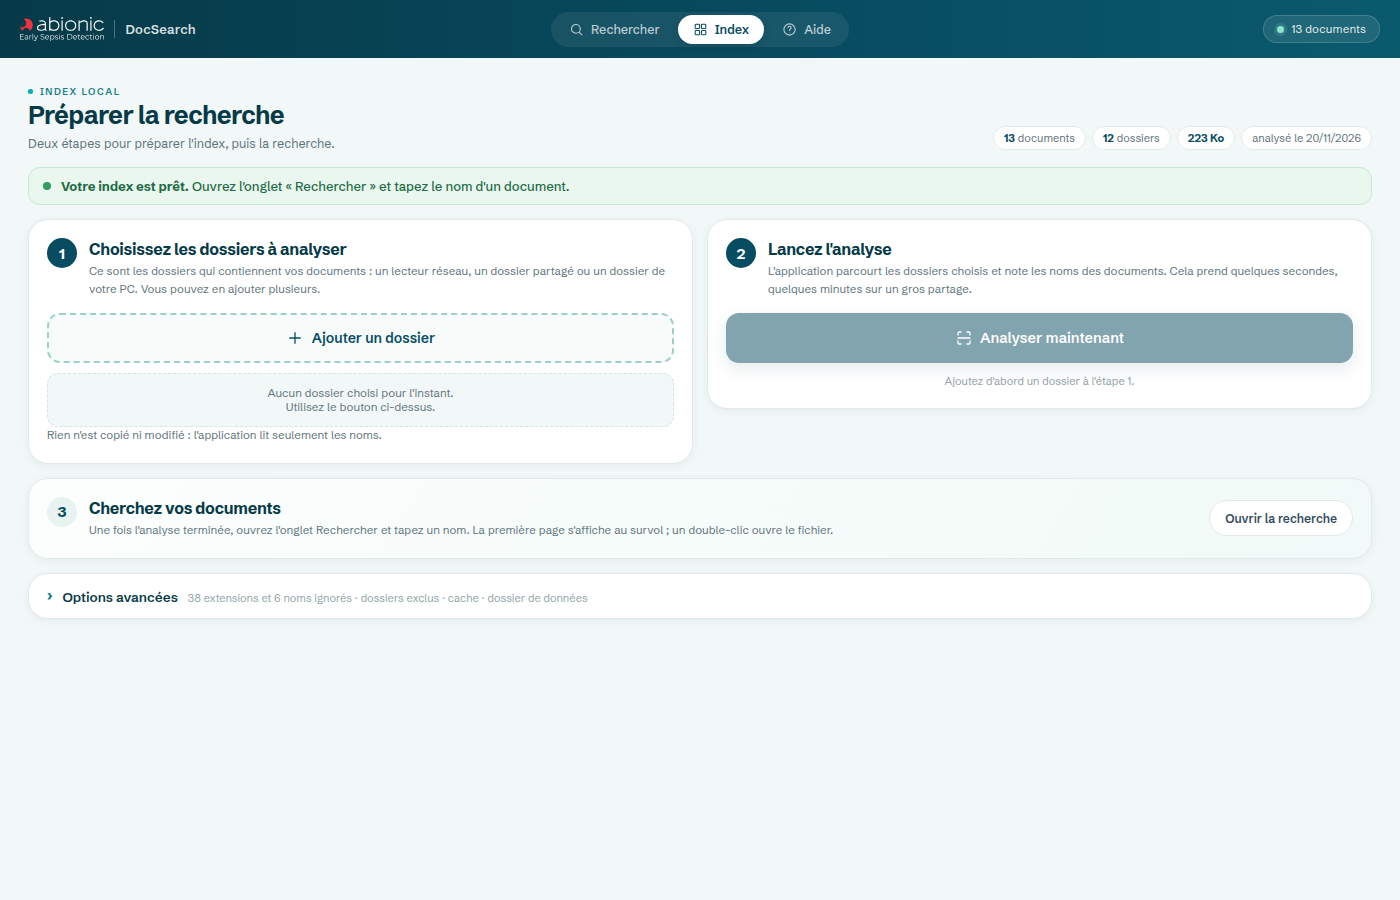
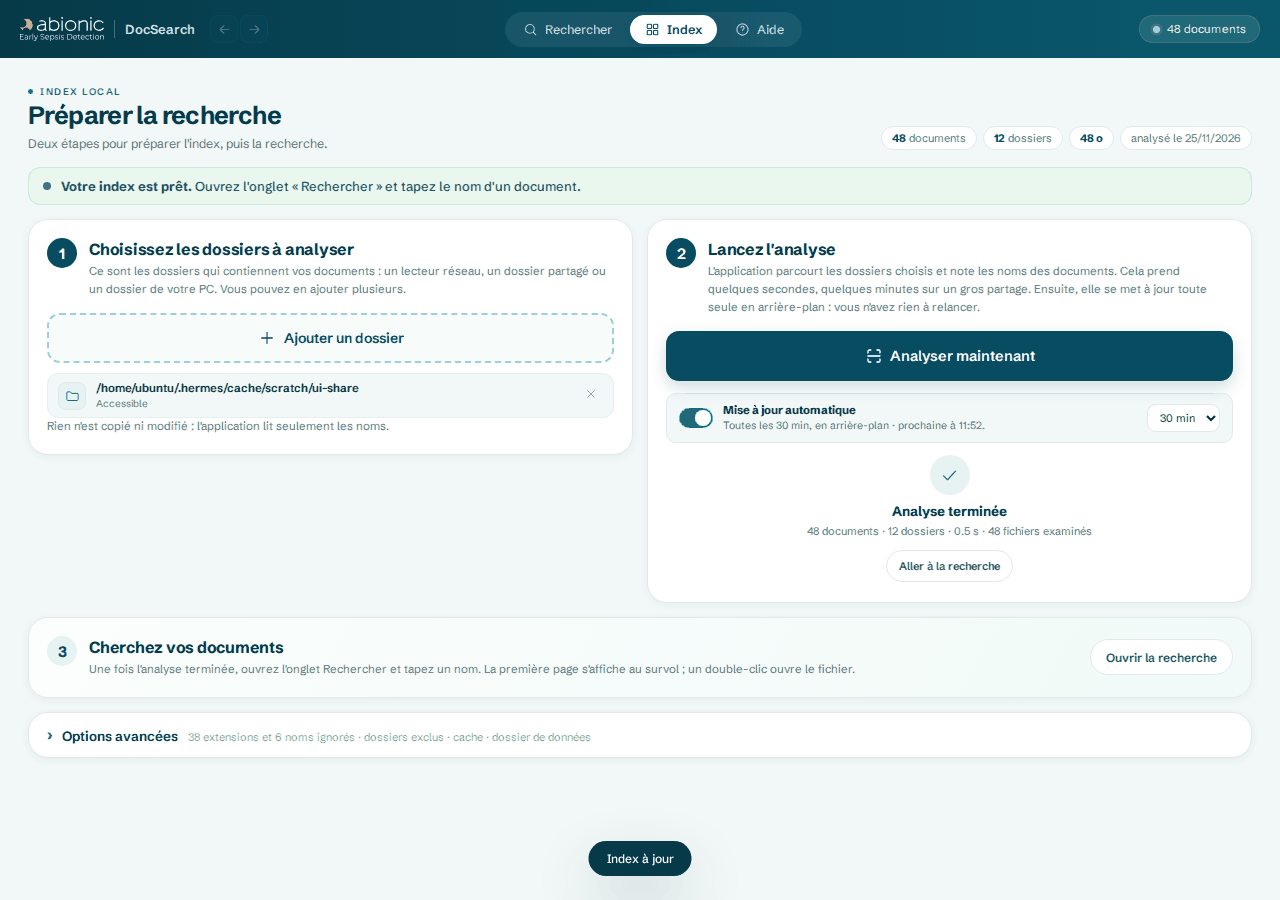
docs: 3.4.0 — mise à jour automatique de l'index

diff --git a/README.md b/README.md
@@ -12,7 +12,13 @@ une recherche instantanée.
 
 - **Indexe les noms** de fichiers et de dossiers d'un ou plusieurs partages
   (lecteur réseau, dossier local). Aucun document n'est ouvert pendant le
-  scan : 200 000 fichiers prennent une quinzaine de secondes.
+  scan : quelques secondes en local, une à deux minutes pour 200 000 fichiers
+  sur un partage réseau, une dizaine de minutes pour un million.
+- **Se met à jour tout seul** en arrière-plan (toutes les 30 min par défaut,
+  de 15 min à 6 h). Chaque dossier est comparé à ce que l'index connaît de
+  lui : un fichier ajouté, renommé ou supprimé apparaît au passage suivant,
+  sans relancer quoi que ce soit. Un dossier refusé ou un partage coupé n'est
+  jamais réconcilié : rien ne disparaît de l'index.
 - **Ignore par défaut** les archives (zip, rar, 7z…), les exécutables, les
   fichiers système et temporaires, et les fichiers de verrouillage Office
   (`~$…`). La liste est visible et modifiable dans les options avancées.
@@ -59,7 +65,8 @@ La ligne de commande est fournie à part, dans
 ## Utiliser
 
 1. Onglet **Index** → **Ajouter un dossier** → choisir le lecteur réseau
-   (`T:\`, `\\srv-file\abioSERVER\...`) → **Analyser maintenant**.
+   (`T:\`, `\\srv-file\abioSERVER\...`) → **Analyser maintenant**. La première
+   analyse se lance toute seule dès qu'un dossier est ajouté.
 2. Onglet **Rechercher** → taper un nom, un dossier ou quelques mots.
 3. Survoler un résultat pour voir la première page, double-cliquer pour ouvrir.
 
@@ -80,8 +87,9 @@ Raccourcis : `Ctrl+K` recherche, `↑`/`↓` naviguer, `Entrée` ouvrir,
 précédente/suivante, `Ctrl+C` copier le chemin, `Échap` retirer le dossier
 puis effacer.
 
-Relancer l'analyse après des changements est rapide : le scan est incrémental
-et ne relit que les noms.
+Après des changements sur le partage, rien à relancer : la mise à jour
+automatique repasse en arrière-plan. **Analyser maintenant** force la mise à
+jour immédiate, et **Arrêter** l'interrompt sans rien perdre.
 
 ## Où sont les données
 
